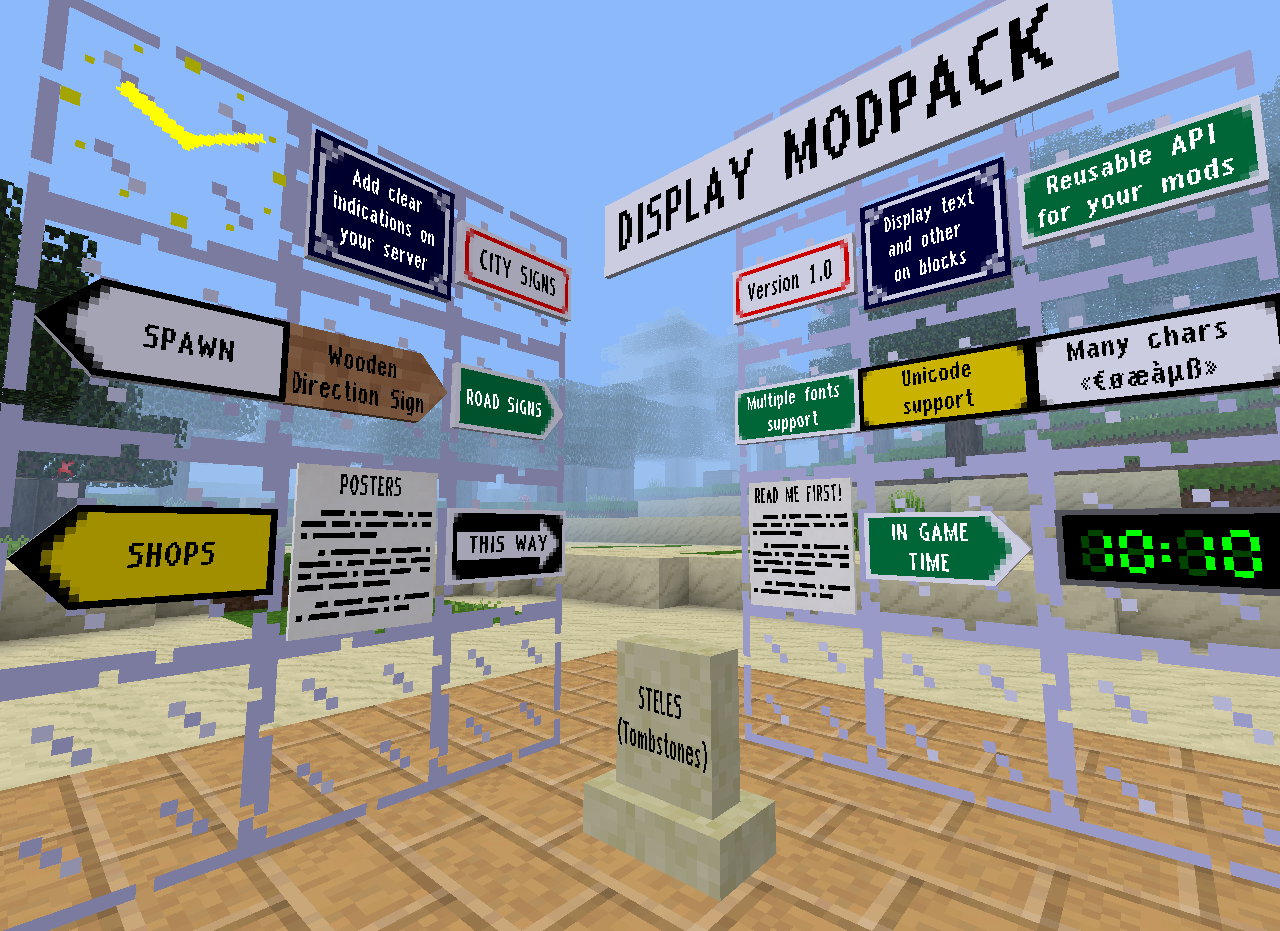
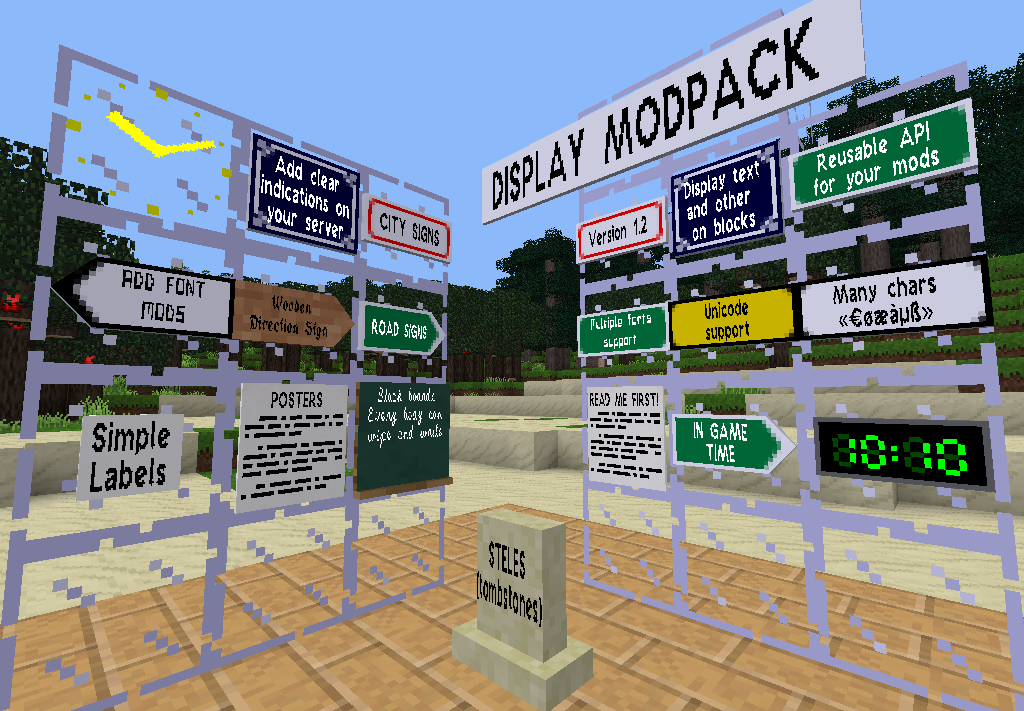
Updated readme and screenshot for v1.2.1

diff --git a/README.md b/README.md
@@ -1,5 +1,5 @@
 # Display Modpack 
-Version 1.2
+Version 1.2.1
 
 This modpack provides mods with dynamic display. Mods are :
 
@@ -27,6 +27,10 @@ Extra font mods can be found here:
  * [Botic](https://github.com/pyrollo/font_botic): A scifi style font.
 
 ## Changelog
+
+### 2018-11-01 (Version 1.2.1)
+
+- Now font can be chosen per sign / stele
 
 ### 2018-11-01 (Version 1.2)
 
